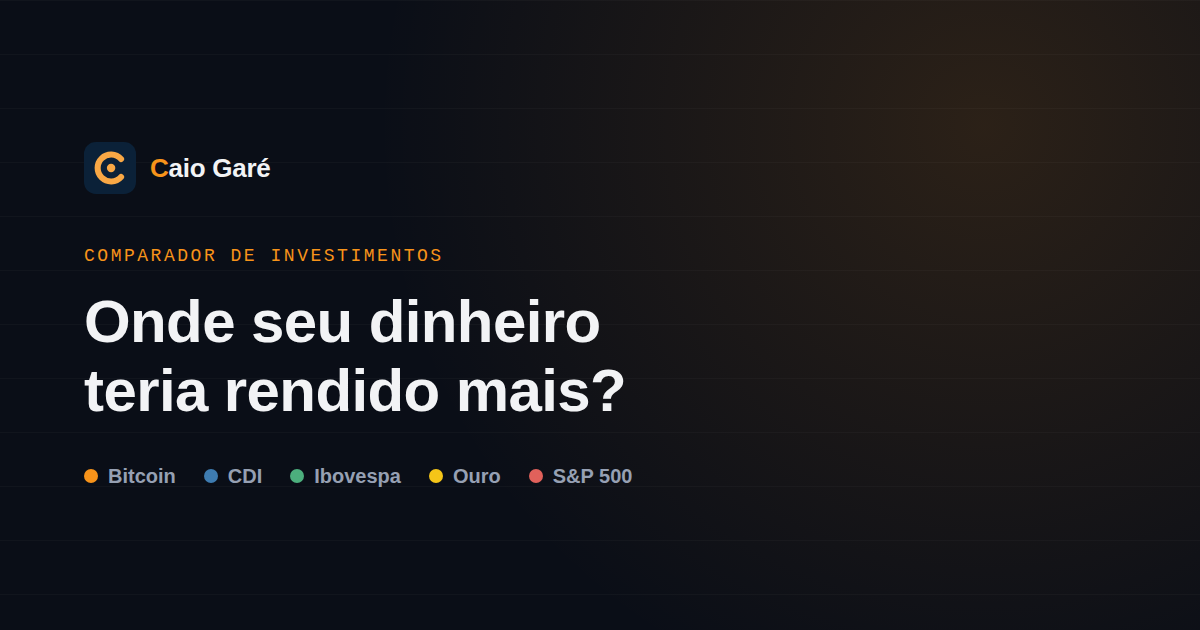
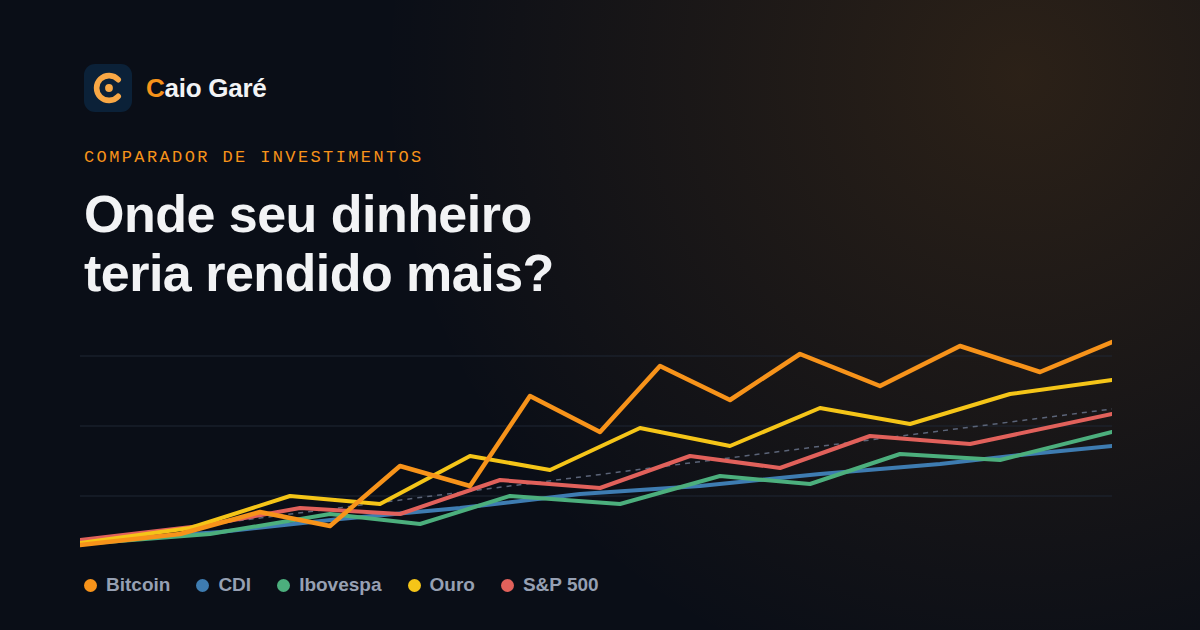
Comparador: personalidade no compartilhamento, imagem da simulação e OG com gráfico
Compartilhamento (X, WhatsApp, copiar resultado) agora usa um único
texto com 3 variações conforme a posição do Bitcoin no resultado —
vencedor, no meio, ou último — em vez de 3 textos por canal. A
personalidade vem do resultado, não do canal de envio.

Nova função de imagem para compartilhamento: gera um PNG 1200x675
client-side (título + o gráfico real da simulação + pódio + total
investido + link), reaproveitando o canvas já renderizado pelo
Chart.js. Em navegadores com suporte a compartilhar arquivos (Web
Share API), abre o menu nativo do X/WhatsApp/Telegram; nos demais,
baixa o arquivo. Sem backend — o site continua 100% estático.

Imagem de Open Graph (assets/img/comparador-og.png) reconstruída para
incluir um gráfico ilustrativo além do logo, título e cores dos
ativos, já que essa imagem é estática (não pode refletir a simulação
específica de quem compartilha, ao contrário da imagem gerada acima).

Grade dos cards (incluindo "Total Investido") já ajustada no commit
anterior desta branch — confirmado novamente com 6 e 4 cards, sempre
preenchendo a linha por completo.

diff --git a/assets/js/comparador.js b/assets/js/comparador.js
@@ -299,32 +299,127 @@ function renderChart(canvasEl, datas, seriePorAtivo, idsSelecionados, totalInves
   });
 }
 
-/* ---------- textos de compartilhamento ----------
-   Um formato por canal, todos curtos e escaneáveis, com emoji fazendo o
-   trabalho de estrutura visual — nada de texto corrido "de relatório". */
+/* ---------- texto de compartilhamento ----------
+   Um único formato, usado nos 3 canais (copiar, X, WhatsApp) — a
+   personalidade vem da posição do Bitcoin no resultado, não do canal.
+   Curto, com emoji fazendo o trabalho de estrutura, sem texto corrido. */
 function descricaoPeriodo() {
   if (state.periodoAnos === 0) return `desde ${fmtDateBR(state.inicio)}`;
   if (state.periodoAnos) return `nos últimos ${state.periodoAnos} ano${state.periodoAnos > 1 ? "s" : ""}`;
   return `de ${fmtDateBR(state.inicio)} a ${fmtDateBR(state.fim)}`;
 }
-function linhasPodio(ordenado, n) {
-  const medalhas = ["🥇", "🥈", "🥉", "4º", "5º", "6º"];
-  return ordenado.slice(0, n).map((r, i) =>
-    `${medalhas[i]} ${r.ativo.nome}: ${r.lucroPct > 0 ? "+" : ""}${r.lucroPct.toFixed(0)}%`
-  );
+function linhaPct(r) {
+  return `${r.lucroPct > 0 ? "+" : ""}${r.lucroPct.toFixed(0)}%`;
 }
-function fraseResumoAportes() {
-  return `${fmtBRL(state.valorInicial)} + ${fmtBRL(state.aporte)}/${FREQ_LABEL[state.frequencia]}`;
+function linhasPodio(ordenado, n) {
+  const medalhas = ["🥇", "🥈", "🥉"];
+  return ordenado.slice(0, n).map((r, i) => `${medalhas[i]} ${r.ativo.nome} ${linhaPct(r)}`);
 }
 
-function fraseCopiarResultado(ordenado) {
-  return `💰 Onde meu dinheiro teria rendido mais?\n\n${linhasPodio(ordenado, 3).join("\n")}\n\nSimulando ${fraseResumoAportes()}, ${descricaoPeriodo()}.\n\n👉 Simule o seu período: ${location.href}`;
+function mensagemCompartilhamento(ordenado, totalInvestido) {
+  const idxBTC = ordenado.findIndex(r => r.ativo.id === "btc");
+  const top3 = linhasPodio(ordenado, 3);
+
+  let headline = "Onde meu dinheiro teria rendido mais?";
+  let linhaExtra = "";
+  if (idxBTC === 0) {
+    headline = "Achei que Bitcoin venceria.\n\nE eu tinha razão.";
+  } else if (idxBTC === ordenado.length - 1) {
+    headline = "Um dia a gente ganha.\n\nNo outro ganham da gente.";
+    linhaExtra = `\n📉 Bitcoin ${linhaPct(ordenado[idxBTC])}`;
+  } else if (idxBTC > 0) {
+    headline = "Pelo menos Bitcoin não ficou em último.";
+  }
+
+  return `${headline}\n\n${top3.join("\n")}${linhaExtra}\n\n💰 ${fmtBRL(totalInvestido)}\n📅 ${descricaoPeriodo()}\n\n🔗 ${location.href}`;
 }
-function fraseWhatsApp(ordenado) {
-  return `💰 Testei onde meu dinheiro teria rendido mais ${descricaoPeriodo()}:\n\n${linhasPodio(ordenado, 3).join("\n")}\n\nTesta o seu período aqui 👇\n${location.href}`;
+
+/* ---------- imagem para compartilhamento ----------
+   Gera um PNG 1200x675 client-side (título + o próprio gráfico da
+   simulação + pódio + total investido) reaproveitando o canvas já
+   renderizado pelo Chart.js — sem chamada de servidor, sem serviço
+   externo. Em navegadores com suporte a compartilhar arquivos (Web
+   Share API — a maioria dos celulares), abre direto o menu nativo do
+   X/WhatsApp/Telegram; nos demais (a maior parte dos desktops), baixa
+   o arquivo pra a pessoa anexar manualmente. */
+async function gerarImagemCompartilhamento(ordenado, totalInvestido) {
+  const W = 1200, H = 675;
+  const canvas = document.createElement("canvas");
+  canvas.width = W;
+  canvas.height = H;
+  const ctx = canvas.getContext("2d");
+
+  ctx.fillStyle = "#0A0E17";
+  ctx.fillRect(0, 0, W, H);
+
+  ctx.fillStyle = "#F2F3F5";
+  ctx.textAlign = "center";
+  ctx.font = "700 38px -apple-system, 'Segoe UI', Roboto, sans-serif";
+  ctx.fillText("Onde seu dinheiro teria rendido mais?", W / 2, 62);
+
+  if (chartInstance) {
+    const chartImg = await new Promise((resolve) => {
+      const img = new Image();
+      img.onload = () => resolve(img);
+      img.src = chartInstance.toBase64Image();
+    });
+    const chartW = 1080, chartH = 350;
+    ctx.drawImage(chartImg, (W - chartW) / 2, 82, chartW, chartH);
+  }
+
+  // rodapé — orçamento fixo de altura (H=675) pra nunca desenhar fora do
+  // canvas: divisória + 3 linhas de pódio + 1 linha de total investido,
+  // com folga suficiente até a borda inferior.
+  const rodapeY = 460;
+  ctx.strokeStyle = "#1F2634";
+  ctx.beginPath();
+  ctx.moveTo(80, rodapeY);
+  ctx.lineTo(W - 80, rodapeY);
+  ctx.stroke();
+
+  const medalhas = ["🥇", "🥈", "🥉"];
+  ctx.textAlign = "left";
+  ctx.font = "600 27px -apple-system, 'Segoe UI', Roboto, sans-serif";
+  let y = rodapeY + 38;
+  ordenado.slice(0, 3).forEach((r, i) => {
+    ctx.fillStyle = "#F2F3F5";
+    ctx.fillText(`${medalhas[i]} ${r.ativo.nome} ${linhaPct(r)}`, 80, y);
+    y += 36;
+  });
+  y += 22;
+
+  ctx.font = "500 22px -apple-system, 'Segoe UI', Roboto, sans-serif";
+  ctx.fillStyle = "#96A0B3";
+  ctx.fillText(`💰 ${fmtBRL(totalInvestido)}`, 80, y);
+
+  ctx.textAlign = "right";
+  ctx.fillStyle = "#F7931A";
+  ctx.font = "600 22px -apple-system, 'Segoe UI', Roboto, sans-serif";
+  ctx.fillText("🌐 caiogare.com.br/comparador", W - 80, y);
+
+  return new Promise((resolve) => canvas.toBlob(resolve, "image/png"));
 }
-function fraseX(ordenado) {
-  return `Se você tivesse investido ${fraseResumoAportes()} ${descricaoPeriodo()}:\n\n${linhasPodio(ordenado, 3).join("\n")}\n\nSimulei em 10s 👇`;
+
+async function compartilharOuBaixarImagem(ordenado, totalInvestido) {
+  const blob = await gerarImagemCompartilhamento(ordenado, totalInvestido);
+  const arquivo = new File([blob], "comparador-investimentos.png", { type: "image/png" });
+
+  if (navigator.canShare && navigator.canShare({ files: [arquivo] })) {
+    try {
+      await navigator.share({ files: [arquivo] });
+      return;
+    } catch (e) {
+      if (e && e.name === "AbortError") return; // usuário cancelou o menu nativo
+      // qualquer outra falha cai no download abaixo
+    }
+  }
+
+  const url = URL.createObjectURL(blob);
+  const a = document.createElement("a");
+  a.href = url;
+  a.download = "comparador-investimentos.png";
+  a.click();
+  URL.revokeObjectURL(url);
 }
 
 async function copiarTexto(texto, feedbackEl, textoOriginal) {
@@ -500,20 +595,30 @@ document.addEventListener("DOMContentLoaded", async () => {
   });
   document.getElementById("btn-copiar-resultado").addEventListener("click", (e) => {
     if (!ultimoResultado) return;
-    copiarTexto(fraseCopiarResultado(ultimoResultado.ordenado), e.target, "Copiar resultado");
+    copiarTexto(mensagemCompartilhamento(ultimoResultado.ordenado, ultimoResultado.totalInvestido), e.target, "Copiar resultado");
   });
   document.getElementById("btn-share-x").addEventListener("click", () => {
     if (!ultimoResultado) return;
-    const url = "https://twitter.com/intent/tweet?text=" + encodeURIComponent(fraseX(ultimoResultado.ordenado)) +
-      "&url=" + encodeURIComponent(location.href);
+    const url = "https://twitter.com/intent/tweet?text=" + encodeURIComponent(mensagemCompartilhamento(ultimoResultado.ordenado, ultimoResultado.totalInvestido));
     window.open(url, "_blank", "noopener");
     shareMenu.style.display = "none";
   });
   document.getElementById("btn-share-whatsapp").addEventListener("click", () => {
     if (!ultimoResultado) return;
-    const url = "https://wa.me/?text=" + encodeURIComponent(fraseWhatsApp(ultimoResultado.ordenado));
+    const url = "https://wa.me/?text=" + encodeURIComponent(mensagemCompartilhamento(ultimoResultado.ordenado, ultimoResultado.totalInvestido));
     window.open(url, "_blank", "noopener");
     shareMenu.style.display = "none";
+  });
+  document.getElementById("btn-baixar-imagem").addEventListener("click", async (e) => {
+    if (!ultimoResultado) return;
+    const textoOriginal = e.target.textContent;
+    e.target.textContent = "Gerando…";
+    try {
+      await compartilharOuBaixarImagem(ultimoResultado.ordenado, ultimoResultado.totalInvestido);
+    } finally {
+      e.target.textContent = textoOriginal;
+      shareMenu.style.display = "none";
+    }
   });
 
   // ---------- estado inicial: URL compartilhada ou padrão de 5 anos ----------

diff --git a/comparador/index.html b/comparador/index.html
@@ -251,6 +251,7 @@
           <button type="button" id="btn-copiar-resultado">Copiar resultado</button>
           <button type="button" id="btn-share-x">Compartilhar no X</button>
           <button type="button" id="btn-share-whatsapp">Compartilhar no WhatsApp</button>
+          <button type="button" id="btn-baixar-imagem">Baixar imagem</button>
         </div>
       </div>
     </div>